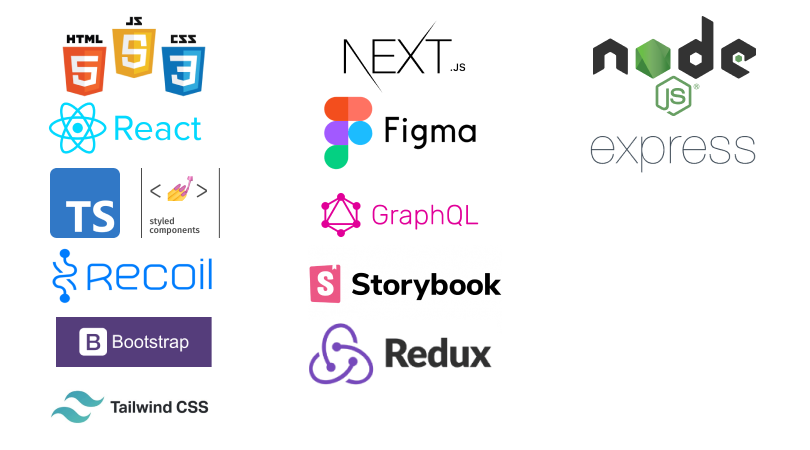
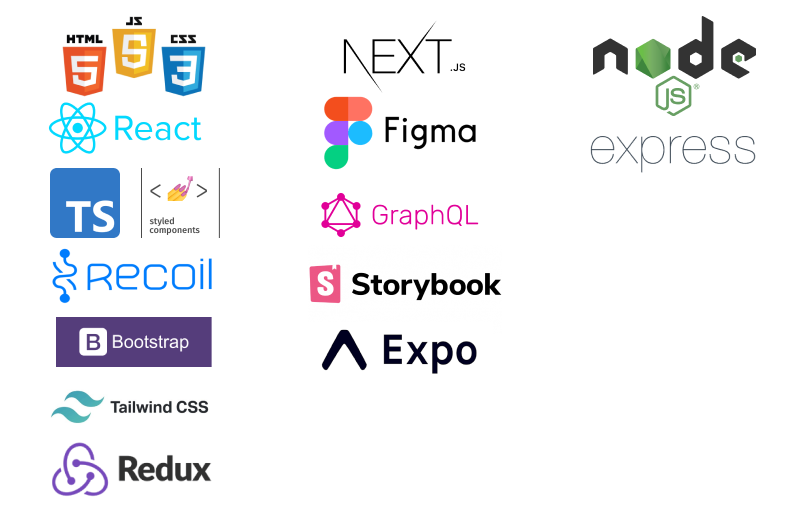
chore : Expo 추가

diff --git a/components/section/Skills.tsx b/components/section/Skills.tsx
@@ -50,7 +50,7 @@ const Card = styled.div<CardProps>`
 
   .frontend {
     width: 250px;
-    height: 430px;
+    height: 508px;
     background: url("stacks.png") -10px -10px;
   }
   .backend {
